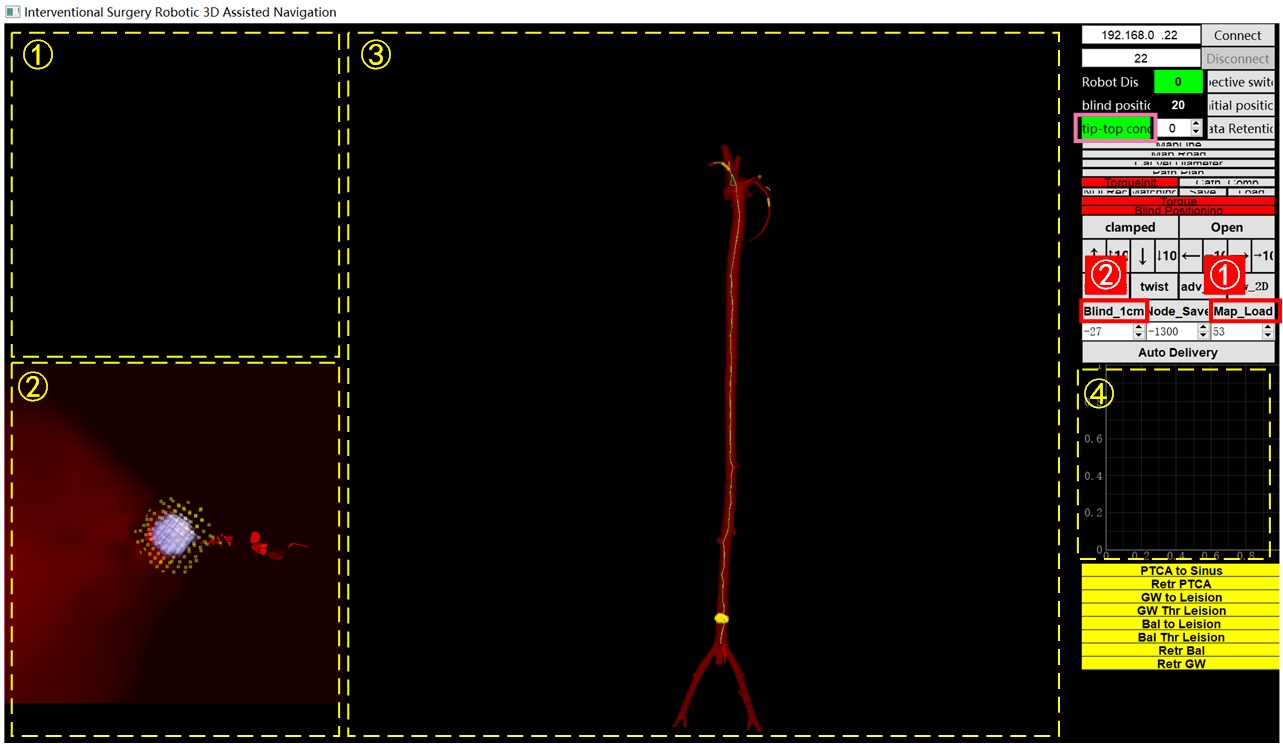
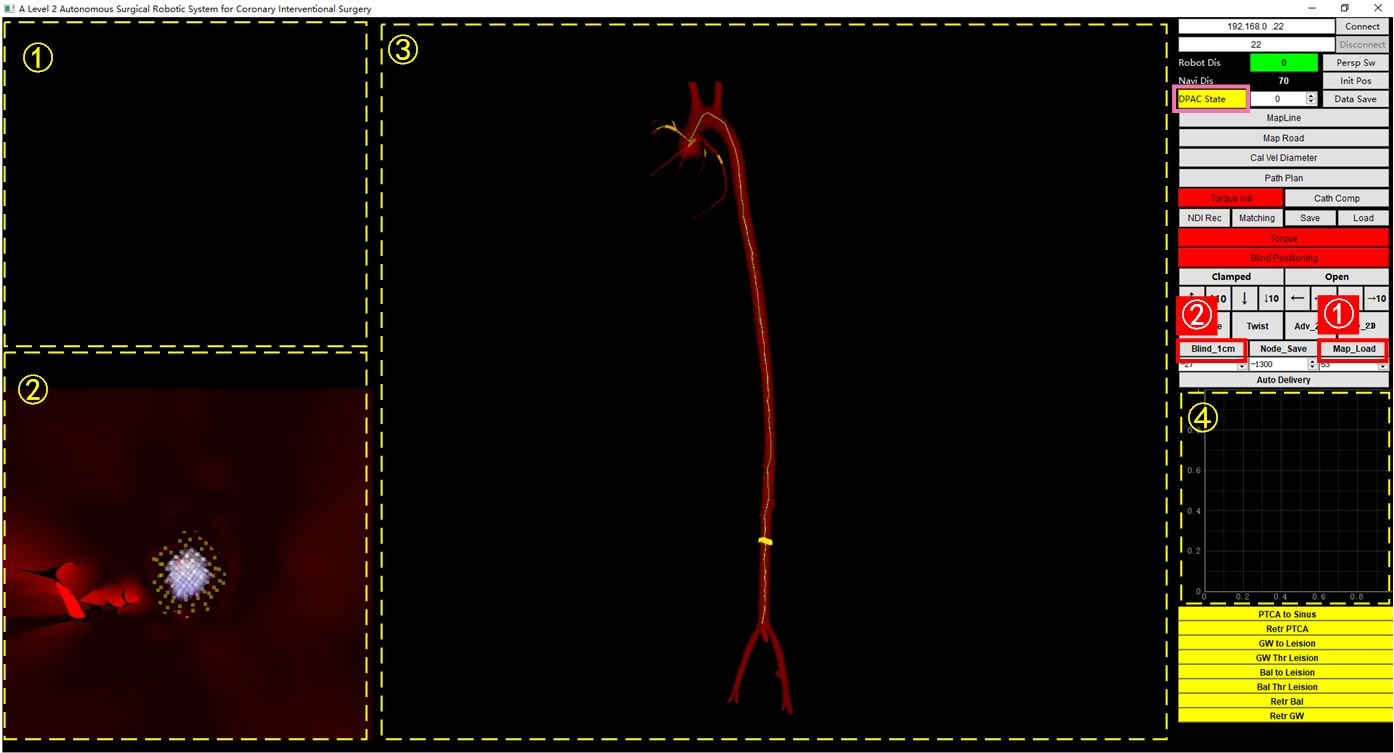
update

Changed region(s): [[0.0, 0.0, 1.0, 1.0]]

diff --git a/main.py b/main.py
@@ -2823,38 +2823,40 @@ class vtkTimerCallback():
         torque_data.write(main.NN_input)  # Access to torque_data
         main.force_state = NN_predict(torque_data.read(), model)  # Input time window data into the model
 
+
         if main.force_state == 2:
+            if not ui.pushButton_5.isEnabled():
+                main.force_2D_actor.SetInput("lesion crossing")
+                main.force_2D_actor.SetDisplayPosition(512, 512)  # Position
+                main.force_2D_actor.GetTextProperty().SetColor(1, 0, 0)  # Color
+                main.ren.AddActor(main.force_2D_actor)
+                main.torque_delay = 3
+                print("dis:",dis)
+                main.rot_dir = main.rot_dir + 1
+                if main.rot_dir % 10 < 5:
+                    socket2robot.sendTargetModeOfOperation_WithFrameIdAndTime(0x02, 'PVM')
+                    socket2robot.sendTargetVelocity_WithFrameIdAndTime(0x02, 200)
 
-            main.force_2D_actor.SetInput("lesion crossing")
-            main.force_2D_actor.SetDisplayPosition(512, 512)  # Position
-            main.force_2D_actor.GetTextProperty().SetColor(1, 0, 0)  # Color
-            main.ren.AddActor(main.force_2D_actor)
-            main.torque_delay = 3
-            print("dis:",dis)
-            main.rot_dir = main.rot_dir + 1
-            if main.rot_dir % 10 < 5:
-                socket2robot.sendTargetModeOfOperation_WithFrameIdAndTime(0x02, 'PVM')
-                socket2robot.sendTargetVelocity_WithFrameIdAndTime(0x02, 200)
-
-            else:
-                socket2robot.sendTargetModeOfOperation_WithFrameIdAndTime(0x02, 'PVM')
-                socket2robot.sendTargetVelocity_WithFrameIdAndTime(0x02, -200)
+                else:
+                    socket2robot.sendTargetModeOfOperation_WithFrameIdAndTime(0x02, 'PVM')
+                    socket2robot.sendTargetVelocity_WithFrameIdAndTime(0x02, -200)
 
 
         elif main.force_state == 1:
+            if not ui.pushButton_5.isEnabled():
+                main.force_2D_actor.SetInput("branch entering")
+                main.force_2D_actor.GetTextProperty().SetColor(1, 1, 0)  # Color
+                main.ren.AddActor(main.force_2D_actor)
+                main.torque_delay = 1
+                main.rot_dir = main.rot_dir + 1
+                if main.rot_dir < 10 and main.rot_dir >= 0:
+                    socket2robot.sendTargetModeOfOperation_WithFrameIdAndTime(0x02, 'PVM')
+                    socket2robot.sendTargetVelocity_WithFrameIdAndTime(0x02, -200)
+                else:
+                    socket2robot.sendTargetModeOfOperation_WithFrameIdAndTime(0x02, 'PVM')
+                    socket2robot.sendTargetVelocity_WithFrameIdAndTime(0x02, 200)
+                # print("进分支开始旋转")
 
-            main.force_2D_actor.SetInput("branch entering")
-            main.force_2D_actor.GetTextProperty().SetColor(1, 1, 0)  # Color
-            main.ren.AddActor(main.force_2D_actor)
-            main.torque_delay = 1
-            main.rot_dir = main.rot_dir + 1
-            if main.rot_dir < 10 and main.rot_dir >= 0:
-                socket2robot.sendTargetModeOfOperation_WithFrameIdAndTime(0x02, 'PVM')
-                socket2robot.sendTargetVelocity_WithFrameIdAndTime(0x02, -200)
-            else:
-                socket2robot.sendTargetModeOfOperation_WithFrameIdAndTime(0x02, 'PVM')
-                socket2robot.sendTargetVelocity_WithFrameIdAndTime(0x02, 200)
-            # print("进分支开始旋转")
 
 
         else:
@@ -3981,7 +3983,7 @@ if __name__ == '__main__':
     main.setWindowIcon(QIcon("Vascure.ico"))
 
 
-    main.setWindowTitle("Interventional Surgery Robotic 3D Assisted Navigation")
+    main.setWindowTitle("A Level 2 Autonomous Surgical Robotic System for Coronary Interventional Surgery")
 
 
     main.resize(1350, 540)

diff --git a/CS3P_and_DPAC_codes/QT_UI.py b/CS3P_and_DPAC_codes/QT_UI.py
@@ -724,25 +724,25 @@ class Ui_MainWindow(object):
         self.pushButton_6.setText(_translate("MainWindow", "Disconnect"))
         self.label.setText(_translate("MainWindow", "Robot Dis"))
         self.label_5.setText(_translate("MainWindow", "xxxxx"))
-        self.pushButton_4.setText(_translate("MainWindow", "initial position"))
-        self.pushButton_8.setText(_translate("MainWindow", "Perspective switching"))
-        self.label_3.setText(_translate("MainWindow", "blind positioning displacement"))
+        self.pushButton_4.setText(_translate("MainWindow", "Init Pos"))
+        self.pushButton_8.setText(_translate("MainWindow", "Persp Sw"))
+        self.label_3.setText(_translate("MainWindow", "Navi Dis"))
         self.label_2.setText(_translate("MainWindow", "xxxxx"))
-        self.label_4.setText(_translate("MainWindow", "tip-top condition"))
-        self.pushButton_7.setText(_translate("MainWindow", "Data Retention"))
+        self.label_4.setText(_translate("MainWindow", "DPAC State"))
+        self.pushButton_7.setText(_translate("MainWindow", "Data Save"))
         self.pushButton.setText(_translate("MainWindow", "MapLine"))
         self.pushButton_3.setText(_translate("MainWindow", "Map Road"))
         self.pushButton_14.setText(_translate("MainWindow", "Cal Vel Diameter"))
         self.pushButton_10.setText(_translate("MainWindow", "Path Plan"))
-        self.pushButton_11.setText(_translate("MainWindow", "TorqueInit"))
-        self.pushButton_15.setText(_translate("MainWindow", "Cath_Comp"))
+        self.pushButton_11.setText(_translate("MainWindow", "Torque Init"))
+        self.pushButton_15.setText(_translate("MainWindow", "Cath Comp"))
         self.pushButton_18.setText(_translate("MainWindow", "NDI Rec"))
         self.pushButton_19.setText(_translate("MainWindow", "Matching"))
         self.pushButton_30.setText(_translate("MainWindow", "Save"))
         self.pushButton_31.setText(_translate("MainWindow", "Load"))
         self.pushButton_2.setText(_translate("MainWindow", "Torque"))
         self.pushButton_12.setText(_translate("MainWindow", "Blind Positioning"))
-        self.pushButton_24.setText(_translate("MainWindow", "clamped"))
+        self.pushButton_24.setText(_translate("MainWindow", "Clamped"))
         self.pushButton_25.setText(_translate("MainWindow", "Open"))
         self.pushButton_20.setText(_translate("MainWindow", "↑"))
         self.pushButton_26.setText(_translate("MainWindow", "↑10"))
@@ -752,10 +752,10 @@ class Ui_MainWindow(object):
         self.pushButton_28.setText(_translate("MainWindow", "←10"))
         self.pushButton_23.setText(_translate("MainWindow", "→"))
         self.pushButton_29.setText(_translate("MainWindow", "→10"))
-        self.pushButton_13.setText(_translate("MainWindow", "advance"))
-        self.pushButton_16.setText(_translate("MainWindow", "twist"))
-        self.pushButton_17.setText(_translate("MainWindow", "adv_2D"))
-        self.pushButton_9.setText(_translate("MainWindow", "tw_2D"))
+        self.pushButton_13.setText(_translate("MainWindow", "Advance"))
+        self.pushButton_16.setText(_translate("MainWindow", "Twist"))
+        self.pushButton_17.setText(_translate("MainWindow", "Adv_2D"))
+        self.pushButton_9.setText(_translate("MainWindow", "Tw_2D"))
         self.pushButton_32.setText(_translate("MainWindow", "Blind_1cm"))
         self.pushButton_33.setText(_translate("MainWindow", "Node_Save"))
         self.pushButton_34.setText(_translate("MainWindow", "Map_Load"))
